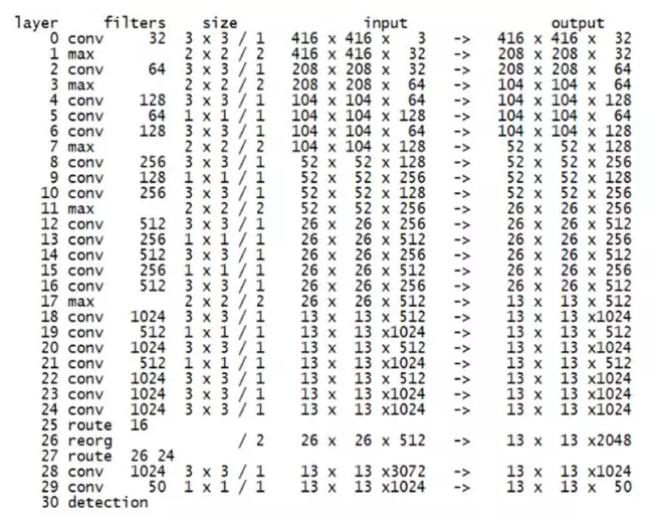
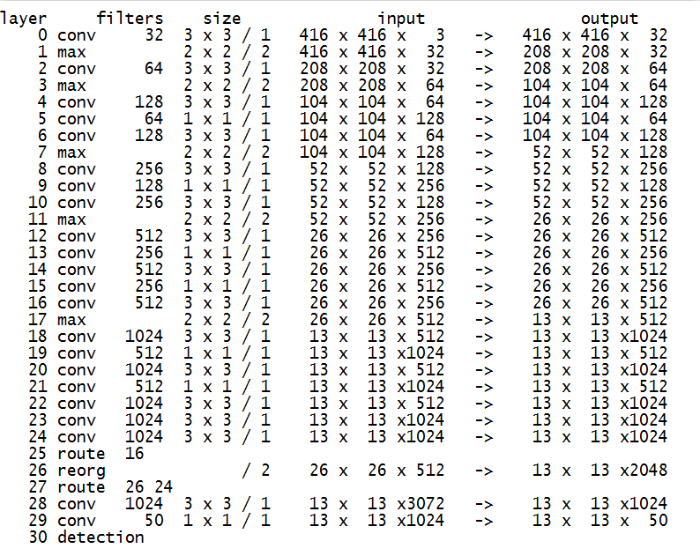
update

diff --git a/_posts/Object-Detection/2018-12-03-YOLO-系列总结.md b/_posts/Object-Detection/2018-12-03-YOLO-系列总结.md
@@ -7,6 +7,13 @@ keywords: yolo系列总结
 description:
 ---
 
+相比 RCNN系列，YOLO 系列的主要缺点：
+
+- 识别物体位置精准性差；
+- 召回率低；
+
+主要原因是每个网格预测固定数量的物体使候选框数量减少；
+
 ## 网络结构
 
 ### Backbone
@@ -27,9 +34,9 @@ description:
 
 **YOLO v1** —— 无
 
-**YOLO v2** —— 第 16 层降采样与第 24 层拼接
+**YOLO v2** —— 维度拼接，一次，第 16 层 26x26x512 → 13x13x2048 与第 24 层拼接；
 
-**YOLO v3** —— 
+**YOLO v3** —— 维度拼接，两次
 
 ### Fully Connected Layer
 
@@ -47,45 +54,36 @@ description:
 
 **YOLO v3** —— 非线性插值法，上采用两次；
 
-### 防止过拟合
-
-**YOLO v1** —— dropout
-
-**YOLO v2** —— batch normalization；
-
-- 提升模型泛化能力的同时使得模型更容易收敛；
-
-**YOLO v3**
-
-
 ### Anchor Box
 
-**YOLO v1**
-
-- 无；
-- 一个 cell 预测一个类；
+**YOLO v1** —— 无
 
 **YOLO v2**
 
-- k-means：对 GT 大小进行聚类。使用 IOU 参与距离计算，若使用欧氏距离会使较大的 BBox 比小的 BBox 产生更大的误差，而 IOU 与 BBox 尺寸无关；使用聚类方法达到相同的 IOU 结果时所需的 anchor box 数量更少。
-- 一个 anchor box 预测一类，解决了临近物体检测效果不好问题；
+- k-means 聚类对数据集的ground truth聚类;
+- 聚类的计算方式：使用 IOU 参与距离计算，若使用欧氏距离会使较大的 BBox 比小的 BBox 产生更大的误差，而 IOU 与 BBox 尺寸无关；使用聚类方法达到相同的 IOU 结果时所需的 anchor box 数量更少。
 - 5 个尺度的 anchor boxes，使用 1 种尺度的 feature map;
 
 **YOLO v3**
 
 - k-means：同 YOLO v2
-- 一个 anchor box 预测一类，解决了临近物体检测效果不好问题；
 - 9 个尺度的 anchor boxes，使用 3 种尺度的 feature map，每个 feature map 分配 3 个尺度的 anchor boxes;
 
-### Bounding Box Prediction
+### Bounding Box
 
-**YOLO v1** —— 直接预测；
+**YOLO v1** —— grid cell
+
+- 直接预测 BBox 的位置和大小；
+- 一个 grid cell 预测一个类；
 
 **YOLO v2** —— anchor box + offset + sigmoid activation
-- offset：相较于直接预测的 BBox 位置，预测物体的偏移量，更易稳定收敛；
-- sigmoid activation：预测 region proposal 的中心点相对于 anchor boxes 中心的偏移量较大时，不好收敛，导致模型在训练初期不稳定。将预测值加以 sigmoid 运算，将 region proposal 的中心点限定在 anchor box 的中心点所在的 cell 里；
 
-**YOLO v3**
+- 预测 BBox 相对于 anchor boxes 的偏移量；
+- 一个 anchor box 预测一类，解决临近物体检测效果不好问题；
+- offset：相较于直接预测的 BBox 位置，预测物体的偏移量，更易稳定收敛；
+- sigmoid activation：当预测的 region proposal 的中心点相对于 anchor boxes 中心的偏移量较大时，不好收敛，导致模型在训练初期不稳定。将预测值加以 sigmoid 运算，将 region proposal 的中心点限定在 anchor box 的中心点所在的 grid cell 里；
+
+**YOLO v3** —— 同 v2;
 
 ## 模型输入
 
@@ -104,37 +102,55 @@ description:
 - 反转180°;
 - 多尺度训练;
 
-**YOLO v3**
+**YOLO v3** —— 同 v2;
 
 ### 图像输入大小
 
-**YOLO v1** —— 448 x 448
+**YOLO v1** —— 预训练模型输入大小为 224x224，检测模型输入大小为 448 x 448；
 
-**YOLO v2** —— Multi-Scale Training
+**YOLO v2** —— Multi-Scale Training：每个 10 个 batches 随机选择一种分辨率输入（320~608，32的倍数）;
 
-- 每个 10 个 batches 随机选择一种分辨率输入（320~608，32的倍数）;
-
-**YOLO v3**
+**YOLO v3** —— 同 v2;
 
 ## 模型输出
 
 ### Output Shape
 
-*S × S × (B × [x, y, width, height, confidence] + C)*
+**YOLO v1**
 
-**YOLO v1** —— 7x7x30 = 7x7x(2x(4+1)+20)；S=7、B=2、C=20；
+- 每个 grid cell 预测一个类别概率；
+- S × S × (B × [x, y, width, height, confidence] + C)；
+- 7x7x(2x5+20)；
 
-**YOLO v2** —— 13x13x425 = 13x13x(5x(4+1+80));S=13、B=5、C=80；
+**YOLO v2**
 
-**YOLO v3** —— 
+- 每个 bbox 预测一个类别概率；
+- S × S × B × ([x, y, width, height, confidence] + C)；
+- 13x13x(5x(5+80))；
 
-### Bounding Box
+**YOLO v3** —— 同 v2;
 
-**YOLO v1** —— 直接预测 BBox 的位置和大小；
+## 训练细节
 
-**YOLO v2** —— 预测 BBox 相对于 anchor boxes 的偏移量；
+### 防止过拟合
 
-**YOLO v3** —— 
+**YOLO v1** —— 也使用了 BN，同时在 FC 中使用 dropout
+
+**YOLO v2** —— 取消 dropout 均使用 BN：提升模型泛化能力的同时使得模型更容易收敛；
+
+**YOLO v3** —— 同 v2;
+
+### 优化器
+
+**YOLO v1** —— 
+
+**YOLO v2** —— SGD
+
+- learning rate = 0.001
+- weight decay = 0.00005
+- momentum = 0.9
+
+**YOLO v3**
 
 ## 损失函数
 
@@ -145,13 +161,15 @@ description:
 
 ### Cls Loss
 
-**YOLO v1** —— 
+**YOLO v1**
 
 **YOLO v2** —— Softmax Loss
 
 **YOLO v3** —— Logistic Loss
 
-- 这个改进主要是用于多标签分类。Softmax 输出的结果有互斥性，只能预测一类，而如果一个物体有多个标签（如：人和女人），那么 Softmax 是做不到的。
+- 这个改进主要是用于多标签分类。Softmax 输出的结果有互斥性，只能预测一类，而如果一个物体有多个标签（如：人和女人），Softmax 是做不到的。
+
+- Softmax 可被独立的多个 logistic 分类器替代，且准确率不会下降。分类损失采用 binary cross-entropy loss.
 
 ### Loc Loss
 
@@ -159,4 +177,4 @@ description:
 
 **YOLO v2** —— 使用 $2 - W_{ij}*h_{ij}$，使小物体的惩罚比大物体重；
 
-**YOLO v3**
+**YOLO v3** —— 同 v2;

diff --git a/_posts/Object-Detection/2018-12-01-YOLO-v2-笔记.md b/_posts/Object-Detection/2018-12-01-YOLO-v2-笔记.md
@@ -17,13 +17,13 @@ description:
 
 ## 相较于 YOLO v1 的改进
 
-1. 保留v1数据增强的策略的同时，增加了图片180°反转和多尺度训练。
+1. 保留 v1 数据增强的策略的同时，增加了图片180°反转和多尺度训练。
 
 2. 添加了 batch normalization，舍弃掉了 dropout，提升模型泛化能力的同时使得模型更容易收敛。
 
 3. 首次提出 darknet19，并用全卷积替代全连接，解决了v1全连接的问题，大大减少了参数规模。
 
-4. 不再像v1一样，直接预测 BBox 的位置和大小，而是受 faster r-cnn 影响，有了 anchor 的概念，从而预测 BBox 相对于 anchor boxes 的偏移量。
+4. 不再像 v1 一样，直接预测 BBox 的位置和大小，而是受 faster r-cnn 影响，有了 anchor 的概念，从而预测 BBox 相对于 anchor boxes 的偏移量。
 
 5. v2 对 Faster R-CNN 的人为设定先验框方法做了改进，采样 k-means 在训练集 BBox 上进行聚类产生合适的先验框。由于使用欧氏距离会使较大的 BBox 比小的 BBox 产生更大的误差，而 IOU 与 BBox 尺寸无关，因此使用 IOU 参与距离计算，使得通过这些 sanchor boxes 获得好的 IOU 分值。改进的距离评估公式：  
 
@@ -35,7 +35,7 @@ $$\mathrm { d } ( \mathrm { box } , \text { centroid } ) = 1 - \mathrm { IOU } (
 $$\begin{array} { l } { x = \left( t _ { x } * w _ { a } \right) - x _ { a } } \\ { y = \left( t _ { y } * h _ { a } \right) - y _ { a } } \end{array}$$
 </div>
 
-由下图可见，将预测值加以 sigmoid 运算，将 region proposal 的中心点牢牢地限定在了 anchor box 的中心点所在的 cell 里，很明显这样偏移量会好学了很多。偏 pw , ph 
+由下图可见，将预测值加以 sigmoid 运算，将 region proposal 的中心点牢牢地限定在了 anchor box 的中心点所在的 cell 里，很明显这样偏移量会好学了很多。
 
 <center>
 
@@ -45,9 +45,9 @@ $$\begin{array} { l } { x = \left( t _ { x } * w _ { a } \right) - x _ { a } } \
 
 注：
 
-- $c _ { x } , c _ { y }$ 是当前 cell 左上角的坐标，$p _ { w } , p _ { h }$ 是anchor box的长宽，$b _ { w } , b _ { h }$  是 region proposal 的长宽。
+- $c _ { x } , c _ { y }$ 是当前 cell 左上角的坐标，$p _ { w } , p _ { h }$ 是 anchor box 的长宽，$b _ { w } , b _ { h }$  是 region proposal 的长宽。
 
-- 输出从 v1 的S × S × B × (coordinates + width ＋ height+ confidence + C)，变为 v2 的S × S × B × (coordinates + width ＋ height+ confidence + C)。此时 S=13，B=5，且从 v1 的一个 cell 预测一个类变为了一个 anchor box 预测一类。这是为了解决临近物体检测效果不好问题。
+- 输出从 v1 的 S × S × (B × (coordinates + width ＋ height + confidence) + C)，变为 v2 的 S × S × B × (coordinates + width ＋ height+ confidence + C)。此时 S=13，B=5，且从 v1 的一个 cell 预测一个类变为了一个 anchor box 预测一类。这是为了解决临近物体检测效果不好问题。
 
 - 损失函数改进，v1 部分提到过，在处理大、小物体上，损失计算设计的不太好，所以 v2 不再简单的对长宽加根号了，而是用 $2 - \mathrm { W } _ { i j ^ { * } } h _ { i j }$ 作为系数加大对小框的损失，$\mathrm { W } _ { i j }$ 和 $\mathrm { h } _ { i j }$ 是第 i 个 cell 的第 j 个 BBox 所匹配到的 ground truth 的长和宽，它们都是相对于原则趋近于 1。可以得出，小物体的惩罚比大物体重。
 
